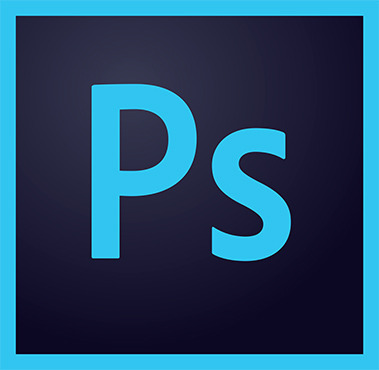
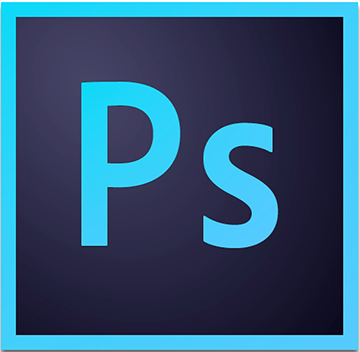
ABOUT ME | skills set done

Changed region(s): [[0.0, 0.0, 1.0, 1.0], [0.55, 0.4688, 0.7944, 0.7188], [0.55, 0.3438, 0.7639, 0.5312]]

diff --git a/public/css/about.css b/public/css/about.css
@@ -957,5 +957,24 @@
   padding: 20px;
   font-size: 30px;
   text-align: center;
+  display: -webkit-box;
+  display: flex;
+  -webkit-box-orient: vertical;
+  -webkit-box-direction: normal;
+          flex-direction: column;
+  -webkit-box-pack: justify;
+          justify-content: space-between;
+}
+
+.about-skills .skills-container .skills-item img {
+  width: 7vw;
+  height: auto;
+  margin: auto;
+}
+
+.about-skills .skills-container .skills-item p {
+  color: #fff;
+  font-size: 16px;
+  margin-top: 5px;
 }
 

diff --git a/resources/sass/about.scss b/resources/sass/about.scss
@@ -79,6 +79,22 @@
 				padding: 20px;
 				font-size: 30px;
 				text-align: center;
+			    display: flex;
+			    flex-direction: column;
+			    justify-content: space-between;
+
+				img {
+					width: 7vw;
+					height: auto;
+					margin: auto;
+				}
+
+				p {
+					color: #fff;
+				    font-size: 16px;
+				    margin-top: 5px;
+				}
+
 			}
 
 		}

diff --git a/resources/sass/master.scss b/resources/sass/master.scss
@@ -1,7 +1,7 @@
 .main-wrapper{
 	background-color: #111821;
     margin-left: 27rem;
-    height: 135vh;
+    height: 100%;
     width: auto;
 }
 
@@ -19,7 +19,7 @@ hr {
 .sidebar {
   margin: 0;
   padding: 5rem 2rem;
-  width: 27rem;
+  width: 28rem;
   background-color: #1E2A3A;
   position: fixed;
   height: 100%;

diff --git a/public/css/master.css b/public/css/master.css
@@ -1,7 +1,7 @@
 .main-wrapper {
   background-color: #111821;
   margin-left: 27rem;
-  height: 135vh;
+  height: 100%;
   width: auto;
 }
 
@@ -20,7 +20,7 @@ hr {
 .sidebar {
   margin: 0;
   padding: 5rem 2rem;
-  width: 27rem;
+  width: 28rem;
   background-color: #1E2A3A;
   position: fixed;
   height: 100%;

diff --git a/resources/views/about.blade.php b/resources/views/about.blade.php
@@ -27,18 +27,66 @@
 			<h2>Skills</h2>
 			
 			<div class="skills-container">
-				<img class="skills-item" src="{{ asset('assets/images/laravel.png') }}">
-				<img class="skills-item" src="{{ asset('assets/images/wordpress.png') }}">
-				<img class="skills-item" src="{{ asset('assets/images/vue.png') }}">
-				<img class="skills-item" src="{{ asset('assets/images/restapi.png') }}">
-				<img class="skills-item" src="{{ asset('assets/images/css_html_js.png') }}">
-				<img class="skills-item" src="{{ asset('assets/images/sass.png') }}">
-				<img class="skills-item" src="{{ asset('assets/images/npm.png') }}">
-				<img class="skills-item" src="{{ asset('assets/images/yarn.png') }}">
-				<img class="skills-item" src="{{ asset('assets/images/devc.png') }}">
-				<img class="skills-item" src="{{ asset('assets/images/php.png') }}">
-				<img class="skills-item" src="{{ asset('assets/images/vbnet.png') }}">
-				<img class="skills-item" src="{{ asset('assets/images/mysql.png') }}">
+				<div class="skills-item">
+					<img src="{{ asset('assets/images/laravel.png') }}">
+					<p>Laravel</p>
+				</div>
+				<div class="skills-item">
+					<img src="{{ asset('assets/images/wordpress.png') }}">
+					<p>Wordpress</p>
+				</div>
+				<div class="skills-item">
+					<img src="{{ asset('assets/images/php.png') }}">
+					<p>PHP</p>
+				</div>
+				<div class="skills-item">
+					<img src="{{ asset('assets/images/devc.png') }}">
+					<p>C++</p>
+				</div>
+				<div class="skills-item">
+					<img src="{{ asset('assets/images/vb.net.png') }}">
+					<p>VB.NET</p>
+				</div>
+				<div class="skills-item">
+					<img src="{{ asset('assets/images/mysql.png') }}">
+					<p>SQL Database</p>
+				</div>
+				<div class="skills-item">
+					<img src="{{ asset('assets/images/npm.png') }}">
+					<p>NPM</p>
+				</div>
+				<div class="skills-item">
+					<img src="{{ asset('assets/images/yarn.png') }}">
+					<p>YARN</p>
+				</div>
+				<div class="skills-item">
+					<img src="{{ asset('assets/images/restapi.png') }}">
+					<p>REST API</p>
+				</div>
+				<div class="skills-item">
+					<img src="{{ asset('assets/images/vue.png') }}">
+					<p>Vue JS</p>
+				</div>
+				<div class="skills-item">
+					<img src="{{ asset('assets/images/html.png') }}">
+					<p>HTML</p>
+				</div>
+				<div class="skills-item">
+					<img src="{{ asset('assets/images/css.png') }}">
+					<p>CSS</p>
+				</div>
+				<div class="skills-item">
+					<img src="{{ asset('assets/images/js.png') }}">
+					<p>Javascript</p>
+				</div>
+				<div class="skills-item">
+					<img src="{{ asset('assets/images/sass.png') }}">
+					<p>SASS</p>
+				</div>
+				<div class="skills-item">
+					<img src="{{ asset('assets/images/ps.png') }}">
+					<p>Photoshop</p>
+				</div>
 			</div>
 
 		</div>
